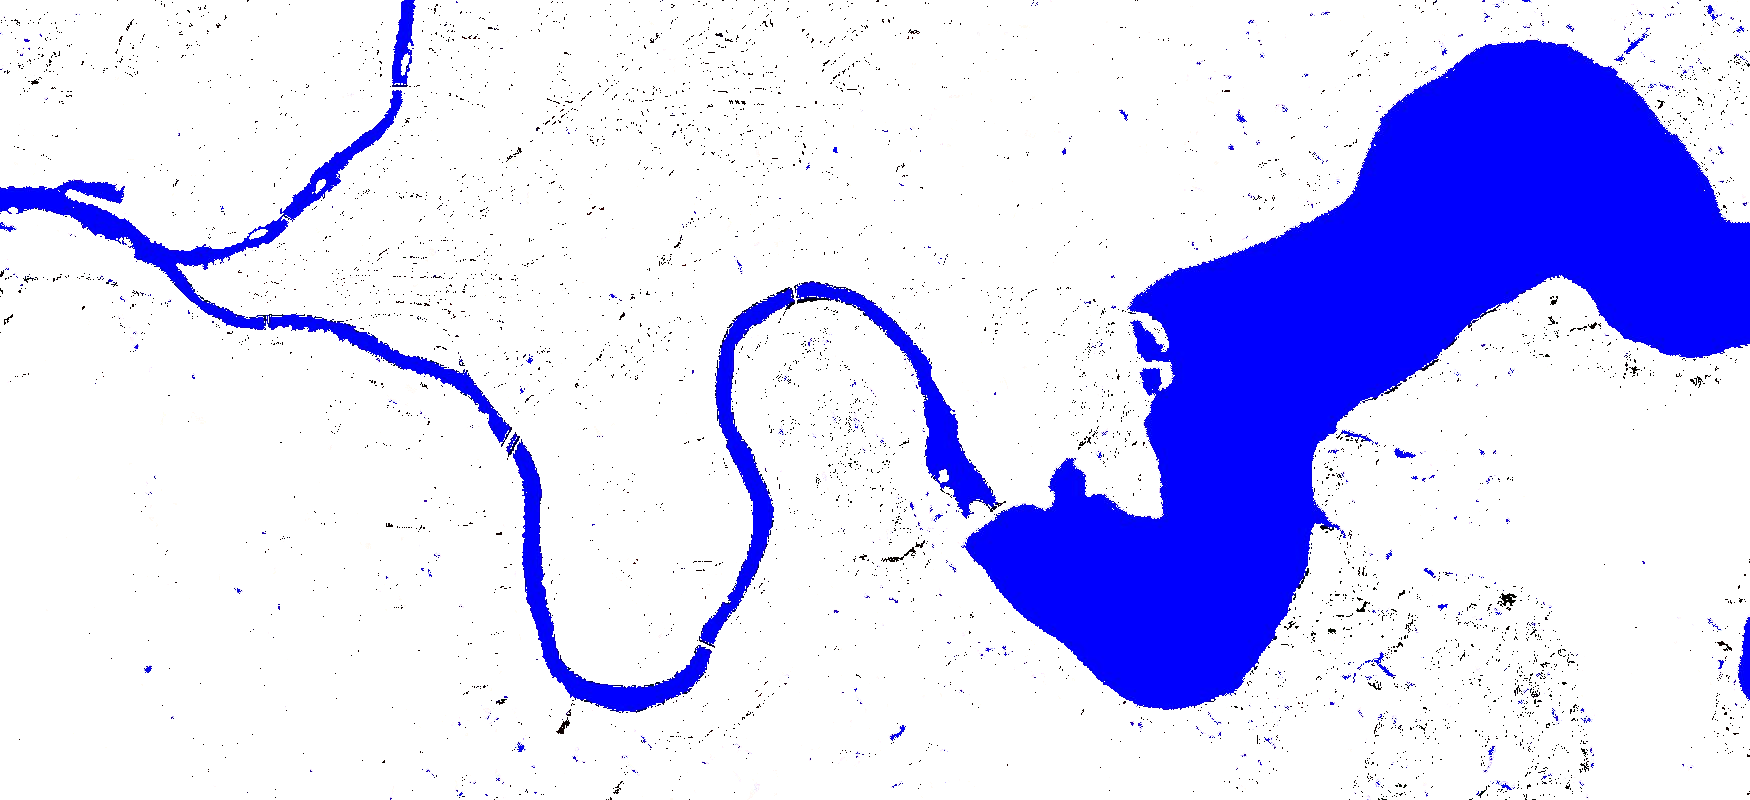
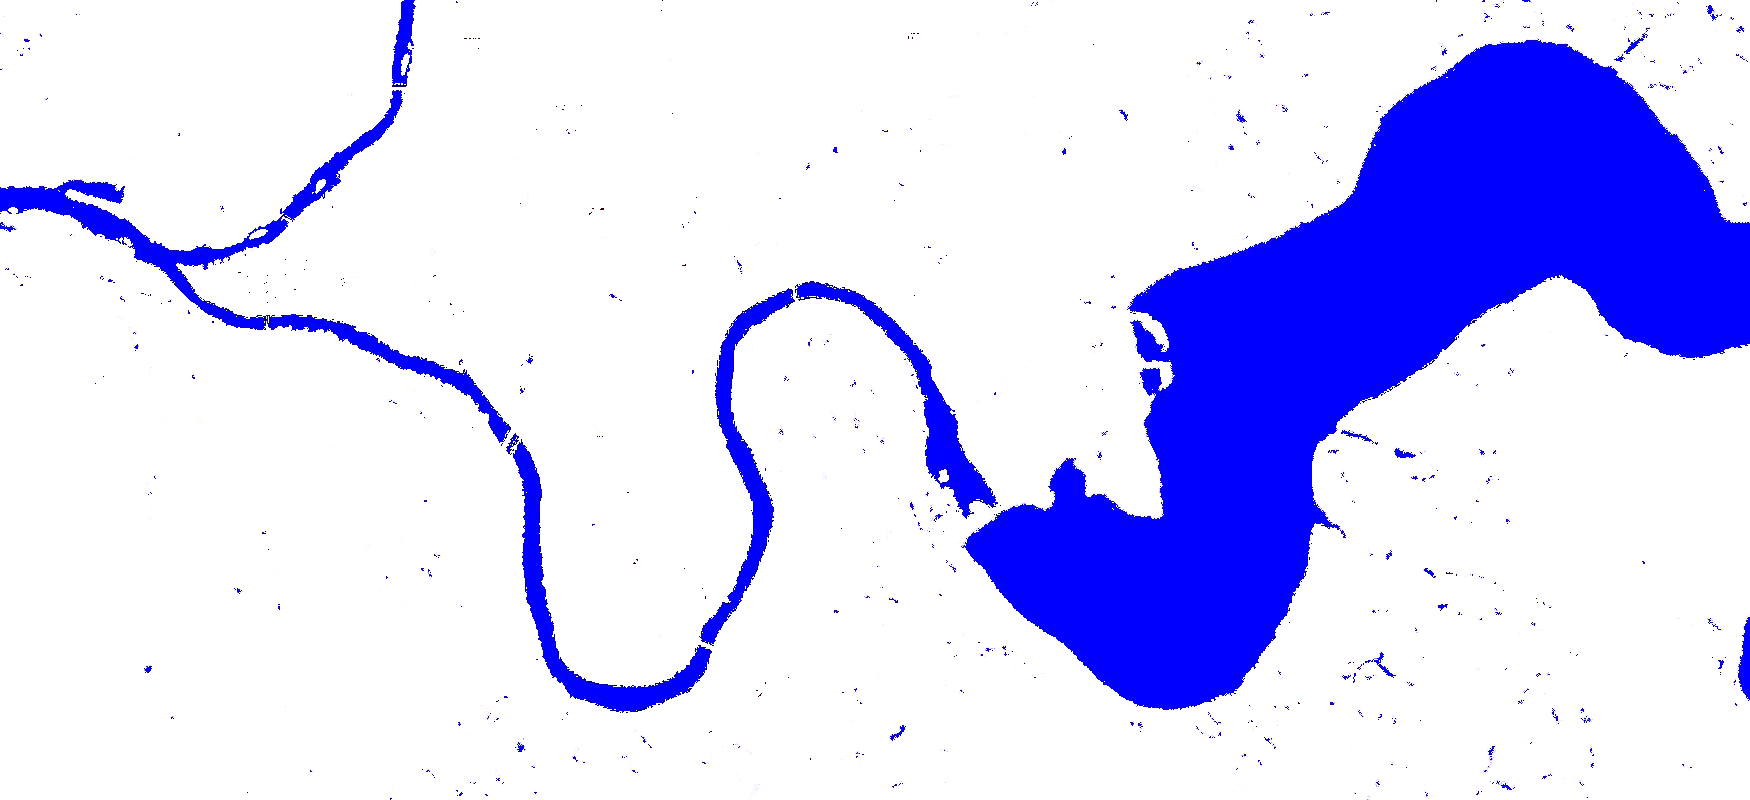
Remove black pixels

Changed region(s): [[0.864, 0.8438, 0.8949, 0.875]]

diff --git a/transparency.py b/transparency.py
@@ -28,6 +28,10 @@ def make_water_mask_transparent(filename):
         else:
             newData.append(item)
 
+    for i in range(len(newData)):
+        if newData[i][0] <= 35 and newData[i][1] <= 25 and newData[i][2] <= 55:
+            newData[i] = (newData[i][0], newData[i][1], newData[i][2], 0)
+
     rgba.putdata(newData)
     rgba.save(f"{sys.path[1]}/transparent_water/{filename}.png", "PNG")
 
